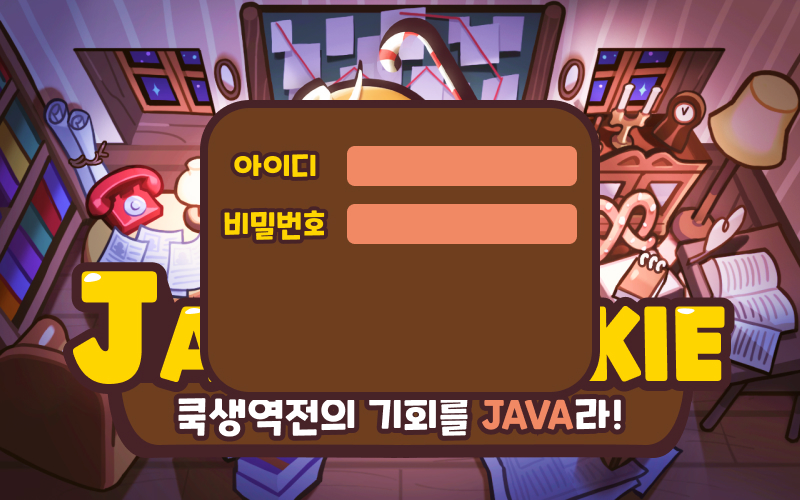
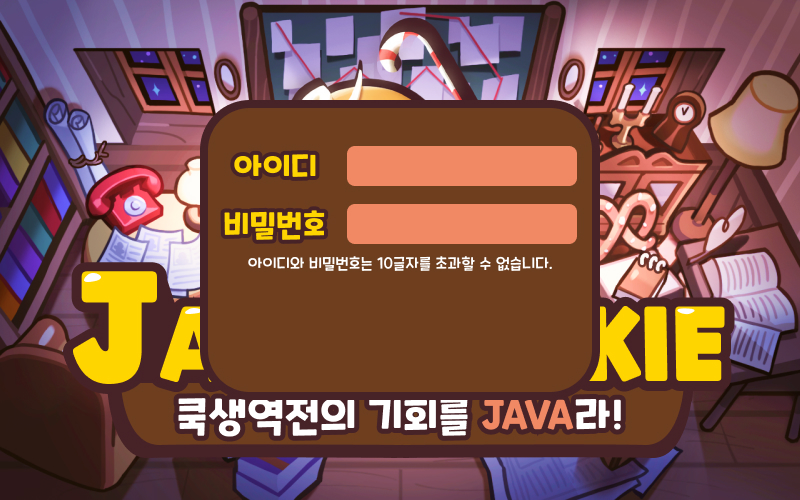
UI 설정

Changed region(s): [[0.3125, 0.51, 0.6875, 0.54]]

diff --git a/src/panels/IntroPanel.java b/src/panels/IntroPanel.java
@@ -3,7 +3,10 @@ package panels;
 import java.awt.CardLayout;
 import java.awt.Color;
 import java.awt.Component;
+import java.awt.Font;
+import java.awt.FontFormatException;
 import java.awt.Graphics;
+import java.awt.GraphicsEnvironment;
 import java.awt.Image;
 import java.awt.Toolkit;
 import java.awt.event.MouseAdapter;
@@ -23,18 +26,19 @@ import javax.swing.JFrame;
 import javax.swing.JLabel;
 import javax.swing.JPanel;
 import javax.swing.JTextArea;
+import javax.swing.JTextField;
 
 import main.listenAdapter;
 
 public class IntroPanel extends JPanel {
 
 	public JLabel introIc = new JLabel(new ImageIcon("img/intro/intro.jpg")); // 인트로 이미지
-	public JTextArea id = new JTextArea();
-	public JTextArea pw = new JTextArea();
-	public JButton login = new JButton("로그인");
-	public JButton join = new JButton("회원가입");
-	public JButton confirm = new JButton("확인");
-	public JButton cancel = new JButton("취소");
+	public JTextField id = new JTextField();
+	public JTextField pw = new JTextField();
+	public JLabel login = new JLabel(new ImageIcon("img/intro/login.png"));
+	public JLabel join = new JLabel(new ImageIcon("img/intro/join.png"));
+	public JLabel confirm = new JLabel(new ImageIcon("img/intro/confirm.png"));
+	public JLabel cancel = new JLabel(new ImageIcon("img/intro/cancel.png"));
 	public JLabel alert = new JLabel("알림창");
 	MouseListener o;
 	public LoginPanel lp;
@@ -46,6 +50,20 @@ public class IntroPanel extends JPanel {
 
 	public class LoginPanel extends JPanel {
 
+//		폰트 설정
+		private Font loadCustomFont(String fontPath, float fontSize) {
+			try {
+				File fontFile = new File(fontPath);
+				Font font = Font.createFont(Font.TRUETYPE_FONT, fontFile).deriveFont(fontSize);
+				GraphicsEnvironment ge = GraphicsEnvironment.getLocalGraphicsEnvironment();
+				ge.registerFont(font);
+				return font;
+			} catch (IOException | FontFormatException e) {
+				e.printStackTrace();
+				return new Font("Arial", Font.BOLD, 24); // 예외가 발생하면 기본 폰트 반환
+			}
+		}
+		
 		public LoginPanel(MouseListener o) {
 			setLayout(null);
 
@@ -57,14 +75,25 @@ public class IntroPanel extends JPanel {
 			confirm.setName("confirm");
 			cancel.setName("cancel");
 
-			id.setBounds(0,0, 200, 20);
-			pw.setBounds(0,20, 200, 20);
-			login.setBounds(0,40, 100, 20);
-			join.setBounds(100,40, 100, 20);
-			alert.setBounds(0,60, 200, 20);
-			confirm.setBounds(0,40, 100, 20);
-			cancel.setBounds(100,40, 100, 20);
+			id.setBounds(350,150, 200, 20);
+			pw.setBounds(350,210, 200, 20);
+			login.setBounds(250,320, 100, 50);
+			join.setBounds(390, 320, 150, 50);
+			alert.setBounds(200,280, 400, 30);
+			confirm.setBounds(270,320, 100, 50);
+			cancel.setBounds(410,320, 100, 50);
+			
+			id.setBackground(new Color(241,137,100));
+			id.setBorder(null);
 
+			pw.setBackground(new Color(241,137,100));
+			pw.setBorder(null);
+			
+			Font cookieRunBlack = loadCustomFont("fonts/CookieRun Regular.otf", 20f);
+			alert.setForeground(new Color(250,0,0));
+			alert.setHorizontalAlignment(JLabel.CENTER);
+			alert.setFont(cookieRunBlack);
+			
 			login.addMouseListener((MouseListener) o);
 			join.addMouseListener((MouseListener) o);
 			confirm.addMouseListener((MouseListener) o);
@@ -74,7 +103,6 @@ public class IntroPanel extends JPanel {
 			cancel.setVisible(false);
 
 			setOpaque(false);
-//			setBackground(new Color(0,0,0,122));
 
 			setBounds(0, 0, 800, 500);
 			add(confirm);

diff --git a/src/main/Main.java b/src/main/Main.java
@@ -181,7 +181,7 @@ public class Main extends listenAdapter {
 		} else if (e.getComponent().getName().equals("confirm")) {
 				int errCode = DB.makeAccount(introPanel.id.getText(), introPanel.pw.getText());
 				if (errCode == 1)introPanel.alert.setText("회원가입 성공");
-				else if(errCode == 1406) introPanel.alert.setText("아이디 및 비밀번호 조건을 확인해주세요.");
+				else if(errCode == 1406) introPanel.alert.setText("10글자를 초과하였습니다.");
 				else if(errCode == 1062) introPanel.alert.setText("이미 존재하는 아이디입니다.");
 				else introPanel.alert.setText("회원가입 실패");
 		} else if (e.getComponent().getName().equals("StartBtn")
